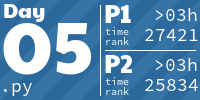
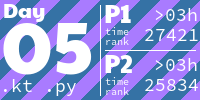
Add day 5 kotlin solution

diff --git a/2022/05/05.kt b/2022/05/05.kt
@@ -1,0 +1,27 @@
+fun main() {
+    val (tower, moves) = generateSequence(::readlnOrNull).joinToString("\n").split("\n\n")
+
+    val stacks = MutableList<MutableList<Char>>(9) { mutableListOf() }
+    tower.split("\n").reversed().drop(1)
+        .forEach { for(i in 1..it.length step 4) if(it[i] != ' ') stacks[i/4].add(it[i]) }
+
+    val nums = moves
+        .split("\n")
+        .map {it.filter {!it.isLetter()}}
+        .map { it.split("  ")}
+        .map { move -> move.map {it.trim().toInt()}}
+
+    nums.forEach {
+        val (n,start,end) = it
+
+        val startStack = stacks[start-1]
+        val endStack = stacks[end-1]
+        val len = startStack.size
+        //use this line instead of next for star 1
+        //endStack.addAll(startStack.subList(len-n,len).reversed())
+        endStack.addAll(startStack.subList(len-n,len))
+        stacks[start-1] = startStack.dropLast(n).toMutableList()
+    }
+
+    println(stacks.filter { it.isNotEmpty() }.map{it.last()}.joinToString(""))
+}

diff --git a/README.md b/README.md
@@ -18,13 +18,13 @@ My Advent of Code solutions for the year 2022.
 <a href="2022/04/04.kt">
   <img src="Media/2022/04.png" width="161px">
 </a>
-<a href="2022/05/05.py">
+<a href="2022/05/05.kt">
   <img src="Media/2022/05.png" width="161px">
 </a>
 <a href="2022/06/06.kt">
   <img src="Media/2022/06.png" width="161px">
 </a>
-<a href="2022/07/07.py">
+<a href="2022/07/07.kt">
   <img src="Media/2022/07.png" width="161px">
 </a>
 <!-- AOC TILES END -->
